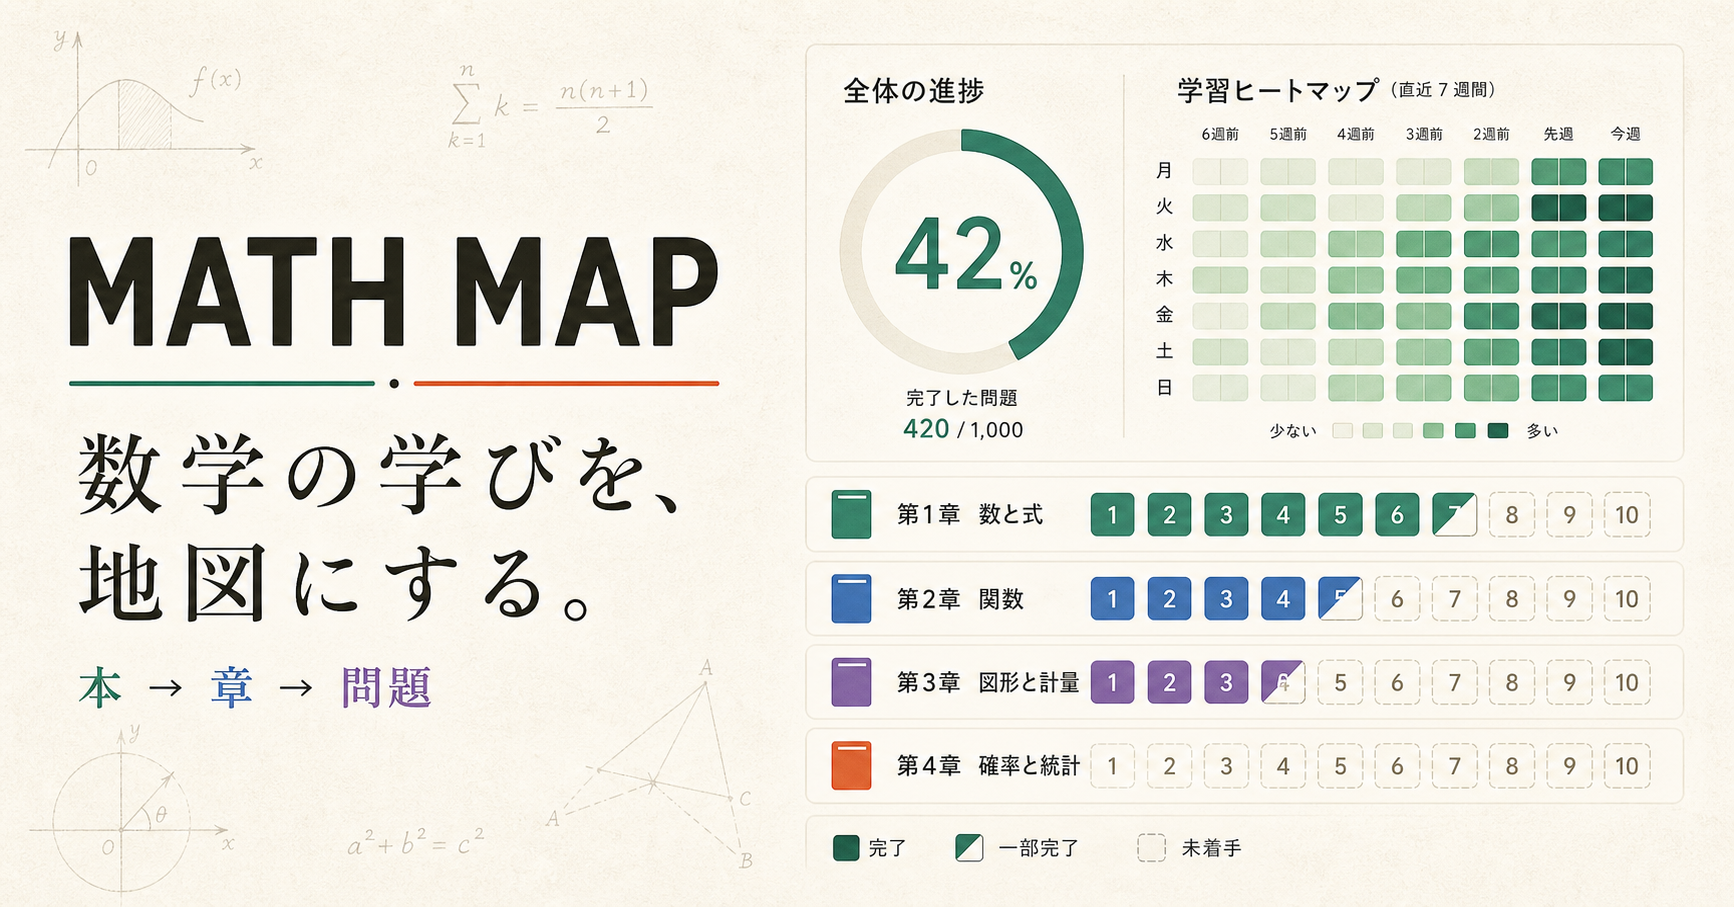
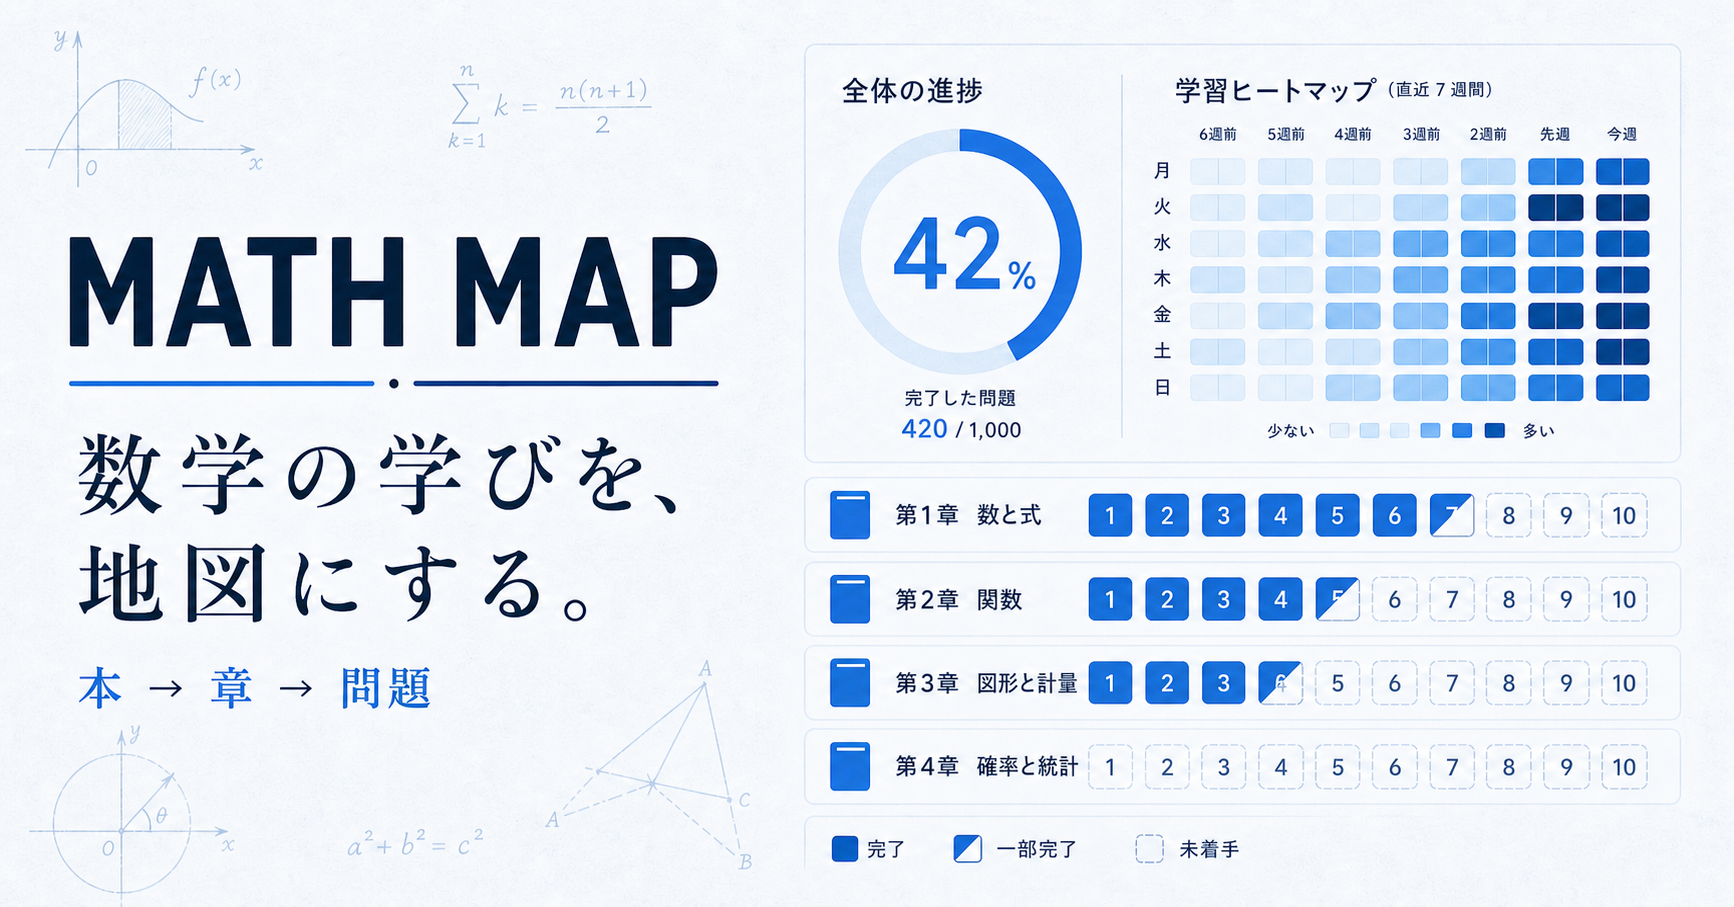
Switch to navy blue UD typography

diff --git a/app/globals.css b/app/globals.css
@@ -1,86 +1,87 @@
 @import "tailwindcss";
 
 :root {
-  --ink: #252822;
-  --muted: #77796f;
-  --line: #e7e5dc;
-  --paper: #f8f7f2;
+  --ink: #10233f;
+  --muted: #68758a;
+  --line: #dce6f3;
+  --paper: #f5f8fd;
   --card: #fff;
-  --accent: #e95d3c;
-  --green: #2e7d6e;
-  --sand: #f0a95d;
-  --blue: #5267ad;
-  --violet: #8b5f9c;
+  --accent: #3b82f6;
+  --green: #1764d9;
+  --sand: #78aef8;
+  --blue: #275eb7;
+  --violet: #6e7fbb;
+  --navy: #0c2342;
 }
 
 * { box-sizing: border-box; }
 html { background: var(--paper); }
-body { margin: 0; color: var(--ink); font-family: "Avenir Next", "Hiragino Sans", "Yu Gothic", sans-serif; }
+body { margin: 0; color: var(--ink); font-family: "Avenir Next", "Helvetica Neue", "BIZ UDPGothic", "Yu Gothic UI", sans-serif; }
 button, input, select { font: inherit; }
 button { color: inherit; }
 
 .app { min-height: 100vh; background: var(--paper); display: grid; grid-template-columns: 258px 1fr; transition: background .2s, color .2s; }
-.app.dark { --ink: #f3f0e7; --muted: #a8a89f; --line: #353731; --paper: #1b1d1a; --card: #252823; }
+.app.dark { --ink: #edf5ff; --muted: #9eb0c8; --line: #2c4361; --paper: #0b1626; --card: #13243a; --navy: #071321; }
 
-.sidebar { position: sticky; top: 0; height: 100vh; padding: 34px 22px 24px; background: var(--card); border-right: 1px solid var(--line); display: flex; flex-direction: column; }
+.sidebar { position: sticky; top: 0; height: 100vh; padding: 34px 22px 24px; background: var(--navy); color: white; border-right: 1px solid #17385f; display: flex; flex-direction: column; }
 .brand { display: flex; gap: 11px; align-items: center; font-weight: 800; letter-spacing: .13em; font-size: 15px; padding: 0 10px 28px; }
-.brand-mark { width: 31px; height: 31px; display: grid; place-items: center; background: var(--ink); color: var(--card); font-family: Georgia, serif; border-radius: 7px 7px 12px 7px; font-size: 19px; }
+.brand-mark { width: 31px; height: 31px; display: grid; place-items: center; background: var(--accent); color: white; font-family: Georgia, serif; border-radius: 7px 7px 12px 7px; font-size: 19px; }
 .main-nav { display: grid; gap: 5px; padding-bottom: 28px; border-bottom: 1px solid var(--line); }
 .nav-item, .material-link, .add-link, .side-footer button { border: 0; background: transparent; cursor: pointer; text-align: left; }
-.nav-item { display: flex; gap: 12px; align-items: center; border-radius: 9px; padding: 10px 12px; color: var(--muted); font-size: 14px; }
+.nav-item { display: flex; gap: 12px; align-items: center; border-radius: 9px; padding: 10px 12px; color: #aabbd1; font-size: 14px; }
 .nav-item span { width: 18px; text-align: center; font-size: 17px; }
-.nav-item b { margin-left: auto; font-size: 11px; background: #f7d9cf; color: #a74832; border-radius: 20px; padding: 2px 7px; }
-.nav-item.active { background: var(--paper); color: var(--ink); font-weight: 700; }
+.nav-item b { margin-left: auto; font-size: 11px; background: #255fa8; color: white; border-radius: 20px; padding: 2px 7px; }
+.nav-item.active { background: rgba(255,255,255,.12); color: white; font-weight: 700; }
 .side-section { padding-top: 24px; }
-.side-section > p { margin: 0 10px 12px; color: var(--muted); text-transform: uppercase; font-size: 10px; font-weight: 800; letter-spacing: .15em; }
-.material-link { width: 100%; display: grid; grid-template-columns: 7px 1fr auto; align-items: center; gap: 10px; padding: 10px 10px; border-radius: 9px; color: var(--muted); font-size: 13px; }
+.side-section > p { margin: 0 10px 12px; color: #7f96b3; text-transform: uppercase; font-size: 10px; font-weight: 800; letter-spacing: .15em; }
+.material-link { width: 100%; display: grid; grid-template-columns: 7px 1fr auto; align-items: center; gap: 10px; padding: 10px 10px; border-radius: 9px; color: #aabbd1; font-size: 13px; }
 .material-link i { width: 7px; height: 20px; border-radius: 5px; }
 .material-link span { overflow: hidden; white-space: nowrap; text-overflow: ellipsis; }
 .material-link small { font-size: 10px; }
-.material-link.selected { background: var(--paper); color: var(--ink); font-weight: 700; }
-.add-link { color: var(--muted); font-size: 12px; padding: 12px 10px; }
+.material-link.selected { background: rgba(255,255,255,.12); color: white; font-weight: 700; }
+.add-link { color: #9bb9dd; font-size: 12px; padding: 12px 10px; }
 .side-footer { margin-top: auto; padding: 18px 10px 0; border-top: 1px solid var(--line); }
 .side-footer button { font-size: 12px; font-weight: 700; }
-.side-footer p { font-size: 9px; color: var(--muted); margin: 8px 0 0; }
+.side-footer p { font-size: 9px; color: #7f96b3; margin: 8px 0 0; }
 
 .workspace { min-width: 0; padding: 43px clamp(28px, 5vw, 76px) 70px; max-width: 1500px; width: 100%; margin: 0 auto; }
 .topbar { display: flex; align-items: center; justify-content: space-between; margin-bottom: 37px; }
 .eyebrow { margin: 0 0 5px; color: var(--muted); font-size: 10px; font-weight: 800; letter-spacing: .14em; text-transform: uppercase; }
-.topbar h1 { margin: 0; font-family: Georgia, "Yu Mincho", serif; font-size: clamp(27px, 3vw, 38px); font-weight: 500; letter-spacing: -.03em; }
+.topbar h1 { margin: 0; font-family: Georgia, "Times New Roman", "BIZ UDPMincho", "Yu Mincho", serif; font-size: clamp(27px, 3vw, 38px); font-weight: 500; letter-spacing: -.03em; }
 .top-actions { display: flex; align-items: center; gap: 10px; }
 .icon-button { border: 1px solid var(--line); background: var(--card); width: 42px; height: 42px; border-radius: 10px; cursor: pointer; font-size: 19px; }
 .primary-button { border: 0; background: var(--ink); color: var(--card); padding: 12px 18px; border-radius: 9px; font-size: 13px; font-weight: 700; cursor: pointer; }
 .summary { display: grid; grid-template-columns: 1.25fr .75fr; gap: 18px; margin-bottom: 35px; }
 .overall-card, .heat-card { background: var(--card); border: 1px solid var(--line); border-radius: 16px; }
 .overall-card { padding: 26px 30px; display: flex; align-items: center; gap: 28px; overflow: hidden; position: relative; }
-.overall-card::after { content: "∫"; position: absolute; right: 20px; bottom: -35px; font: 120px/1 Georgia, serif; color: var(--paper); transform: rotate(-8deg); pointer-events: none; }
+.overall-card::after { content: "∫"; position: absolute; right: 20px; bottom: -35px; font: 120px/1 Georgia, serif; color: #edf4ff; transform: rotate(-8deg); pointer-events: none; }
 .ring { --progress: 0deg; flex: 0 0 auto; width: 126px; height: 126px; padding: 8px; border-radius: 50%; background: conic-gradient(var(--accent) var(--progress), var(--line) 0); }
 .ring > div { width: 100%; height: 100%; border-radius: 50%; background: var(--card); display: grid; place-content: center; text-align: center; }
 .ring strong { font: 31px/1 Georgia, serif; }
 .ring span { margin-top: 6px; font-size: 9px; color: var(--muted); }
 .overall-copy { position: relative; z-index: 1; }
 .overall-copy > p, .card-heading p { font-size: 10px; color: var(--muted); font-weight: 700; letter-spacing: .08em; margin: 0 0 8px; }
-.overall-copy h2 { font: 500 20px/1.45 Georgia, "Yu Mincho", serif; margin: 0 0 17px; }
+.overall-copy h2 { font: 500 20px/1.45 Georgia, "Times New Roman", "BIZ UDPMincho", "Yu Mincho", serif; margin: 0 0 17px; }
 .mini-stats { display: flex; gap: 20px; font-size: 10px; color: var(--muted); }
 .mini-stats b { color: var(--ink); font: 600 15px Georgia, serif; margin-right: 3px; }
 .heat-card { padding: 23px 25px; }
 .card-heading { display: flex; justify-content: space-between; align-items: flex-start; }
 .card-heading h3 { margin: 0; font: 500 18px Georgia, serif; }
-.card-heading > span { color: var(--green); background: color-mix(in srgb, var(--green) 10%, transparent); border-radius: 20px; padding: 5px 9px; font-size: 9px; font-weight: 700; }
+.card-heading > span { color: var(--blue); background: #e8f1ff; border-radius: 20px; padding: 5px 9px; font-size: 9px; font-weight: 700; }
 .heatmap { display: grid; grid-template-columns: repeat(7, 1fr); gap: 5px; margin: 23px 0 12px; }
 .heatmap i, .heat-legend i { aspect-ratio: 1; border-radius: 3px; background: var(--line); }
-[data-level="1"] { background: #c6ddd7 !important; }
-[data-level="2"] { background: #88b9ad !important; }
-[data-level="3"] { background: #4e9282 !important; }
+[data-level="1"] { background: #dbeafe !important; }
+[data-level="2"] { background: #93c5fd !important; }
+[data-level="3"] { background: #60a5fa !important; }
 [data-level="4"] { background: var(--green) !important; }
 .heat-legend { display: flex; justify-content: flex-end; align-items: center; gap: 4px; font-size: 8px; color: var(--muted); }
 .heat-legend i { width: 9px; }
 
 .material-head { display: flex; justify-content: space-between; align-items: end; padding: 0 2px 22px; border-bottom: 1px solid var(--line); }
 .book-title { display: flex; gap: 15px; align-items: center; }
-.book-title > span { color: white; width: 42px; height: 52px; display: grid; place-items: center; border-radius: 5px 9px 9px 5px; box-shadow: inset 5px 0 rgba(0,0,0,.12); font: 700 15px "Yu Mincho", serif; }
+.book-title > span { color: white; width: 42px; height: 52px; display: grid; place-items: center; border-radius: 5px 9px 9px 5px; box-shadow: inset 5px 0 rgba(0,0,0,.12); font: 700 15px Georgia, "BIZ UDPMincho", "Yu Mincho", serif; }
 .book-title p { margin: 0 0 4px; color: var(--muted); font-size: 10px; }
-.book-title h2 { margin: 0; font: 600 22px Georgia, "Yu Mincho", serif; }
+.book-title h2 { margin: 0; font: 600 22px Georgia, "BIZ UDPMincho", "Yu Mincho", serif; }
 .material-progress { width: min(260px, 30%); }
 .material-progress > div:first-child { display: flex; justify-content: space-between; align-items: baseline; font-size: 10px; color: var(--muted); }
 .material-progress strong { color: var(--ink); font: 600 17px Georgia, serif; }
@@ -88,7 +89,7 @@ button { color: inherit; }
 .progress-track i, .chapter-pct i { display: block; height: 100%; border-radius: inherit; }
 .problem-section { padding-top: 25px; }
 .problem-toolbar { display: flex; justify-content: space-between; align-items: center; }
-.problem-toolbar h3 { margin: 0 0 4px; font: 600 17px Georgia, "Yu Mincho", serif; }
+.problem-toolbar h3 { margin: 0 0 4px; font: 600 17px Georgia, "BIZ UDPMincho", "Yu Mincho", serif; }
 .problem-toolbar p { margin: 0; font-size: 10px; color: var(--muted); }
 .problem-toolbar select { color: var(--ink); background: var(--card); border: 1px solid var(--line); border-radius: 8px; padding: 9px 30px 9px 11px; font-size: 11px; }
 .legend { display: flex; flex-wrap: wrap; gap: 15px; margin: 22px 0 13px; font-size: 9px; color: var(--muted); }
@@ -107,20 +108,20 @@ button { color: inherit; }
 .problem { height: 34px; min-width: 34px; border: 1px solid transparent; border-radius: 6px; font-size: 10px; font-weight: 700; cursor: pointer; transition: transform .15s, box-shadow .15s; }
 .problem:hover { transform: translateY(-2px); box-shadow: 0 4px 10px rgba(0,0,0,.08); }
 .todo { background: var(--paper); border-color: var(--line); color: var(--muted); }
-.trying { background: #f7e0bd; color: #94661f; }
-.solved { background: var(--green); color: white; }
-.with-answer { background: #dbe1f5; color: #405292; }
-.review { background: #eadced; color: #754585; }
+.trying { background: #dbeafe; color: #174c96; border: 1px dashed #3b82f6; }
+.solved { background: var(--accent); color: white; }
+.with-answer { background: #b9d5fb; color: #123f7d; }
+.review { background: #edf3fc; color: #2e568e; border: 1px dotted #2e67b2; }
 .dot.todo { background: var(--line); }
-.dot.trying { background: var(--sand); }
-.dot.solved { background: var(--green); }
+.dot.trying { background: #93c5fd; }
+.dot.solved { background: var(--accent); }
 .dot.with-answer { background: var(--blue); }
-.dot.review { background: var(--violet); }
+.dot.review { background: #dbeafe; border: 1px solid #2e67b2; }
 .empty { color: var(--muted); font-size: 11px; grid-column: 1 / -1; }
 
 .modal-backdrop { position: fixed; inset: 0; z-index: 10; background: rgba(20,22,19,.48); display: grid; place-items: center; padding: 20px; backdrop-filter: blur(3px); }
 .modal { position: relative; width: min(440px, 100%); background: var(--card); border-radius: 17px; padding: 32px; box-shadow: 0 24px 80px rgba(0,0,0,.25); }
-.modal h2 { font: 600 25px Georgia, "Yu Mincho", serif; margin: 0 0 24px; }
+.modal h2 { font: 600 25px Georgia, "BIZ UDPMincho", "Yu Mincho", serif; margin: 0 0 24px; }
 .modal-close { position: absolute; right: 16px; top: 14px; border: 0; background: transparent; font-size: 23px; cursor: pointer; color: var(--muted); }
 .modal label { display: grid; gap: 8px; font-size: 11px; font-weight: 700; }
 .modal input { width: 100%; border: 1px solid var(--line); background: var(--paper); color: var(--ink); border-radius: 9px; padding: 13px 14px; outline: none; }

diff --git a/app/page.tsx b/app/page.tsx
@@ -34,7 +34,7 @@ const seed: Material[] = [
     id: "linear",
     title: "線形代数学入門",
     kind: "教科書",
-    color: "#ff6b4a",
+    color: "#3b82f6",
     chapters: [
       {
         id: "l1",
@@ -66,7 +66,7 @@ const seed: Material[] = [
     id: "analysis",
     title: "解析学 I 演習",
     kind: "授業",
-    color: "#2e7d6e",
+    color: "#1764d9",
     chapters: [
       {
         id: "a1",
@@ -82,7 +82,7 @@ const seed: Material[] = [
     id: "probability",
     title: "確率・統計",
     kind: "教科書",
-    color: "#5267ad",
+    color: "#275eb7",
     chapters: [
       {
         id: "p1",
@@ -187,7 +187,7 @@ export default function Home() {
         id,
         title: newTitle.trim(),
         kind: "教科書",
-        color: "#8b5f9c",
+        color: "#6e7fbb",
         chapters: [
           {
             id: `${id}-1`,
